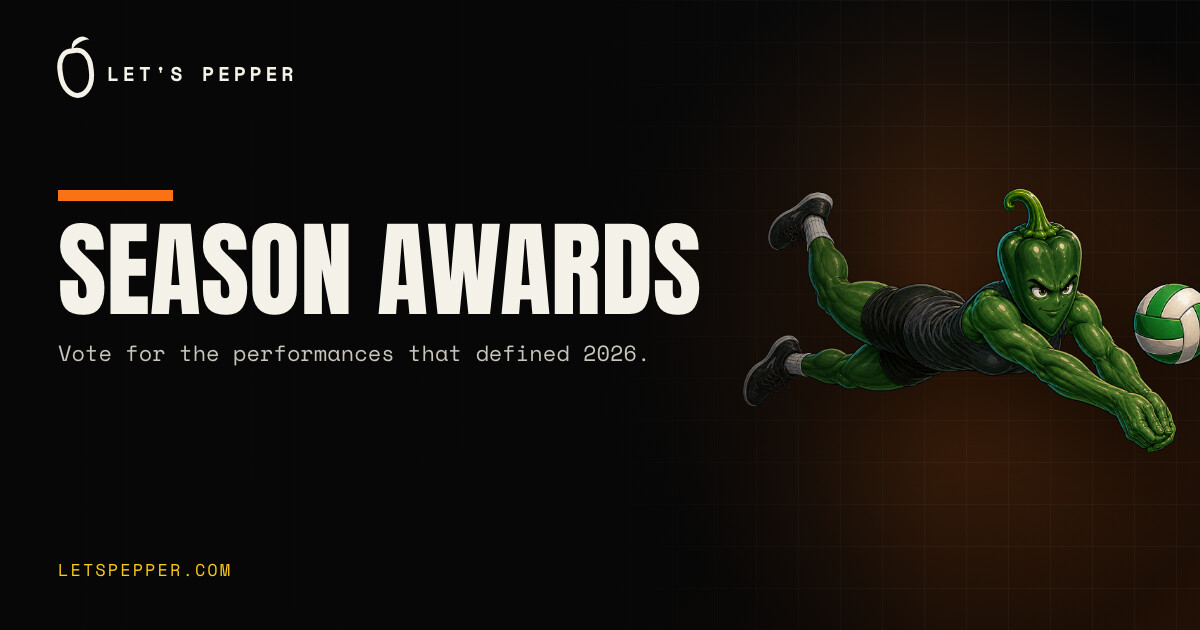
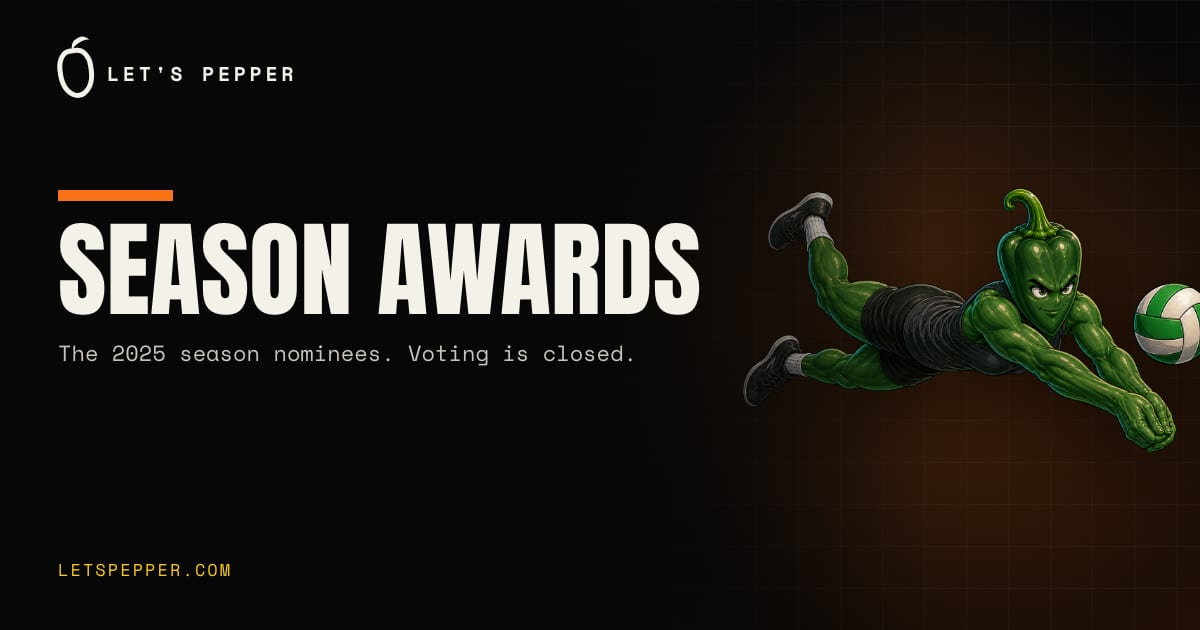
fix(awards): close the 2025 season fan vote
/awards still took ballots for the 2025 season a year after it ended, and
promised "Winners will be announced at the end of the season". Each
category holds one vote.

- AWARDS_VOTING_OPEN (src/lib/awards-data.ts) is false. The server refuses
  awards ballots in /api/votes (awards:* scopes) and award-vote points in
  /api/engagement with a 403, so a direct POST can't vote or earn points
  either. A forbidden() helper joins the API's response helpers.
- The page shows the 2025 nominees read-only, as a record rather than a
  ballot. It shows no submit button, no tallies (results stay hidden) and
  no announcement promise. It skips the live Rally HQ nominee list, which
  is recomputed from every event and would put 2026 names, such as Flores
  and Teresi from the Jalapeño Open, under the 2025 heading.
- The share description and the Open Graph card said "Vote for the
  performances that defined 2026." Both now read "The 2025 season nominees.
  Voting is closed." The card was re-rendered with
  scripts/media-kit/render-media-kit.mjs from creative/copy/approved-copy.json,
  and only the awards card was kept.

diff --git a/src/app/awards/page.tsx b/src/app/awards/page.tsx
@@ -5,7 +5,7 @@ import { motion, AnimatePresence } from 'framer-motion'
 import { MOTION } from '@/lib/motion'
 import { Header, Footer } from '@/components'
 import { cn } from '@/lib/utils'
-import { awardCategories, AWARDS_RESULTS_REVEALED } from '@/lib/awards-data'
+import { awardCategories, AWARDS_RESULTS_REVEALED, AWARDS_VOTING_OPEN } from '@/lib/awards-data'
 import { HEAT_CONFIG, type HeatLevel } from '@/lib/heat-config'
 import { heatText, type Heat } from '@/components/rhq/heat'
 import { HeatMeter } from '@/components/rhq/HeatMeter'
@@ -49,6 +49,10 @@ export default function AwardsPage() {
   const [categories, setCategories] = useState(awardCategories)
 
   useEffect(() => {
+    // A closed vote shows the nominees it ran with. The live Rally HQ list is
+    // recomputed from every event, including ones after the vote, so it would
+    // put later names under the 2025 heading.
+    if (!AWARDS_VOTING_OPEN) return
     const RHQ_BY_LP: Record<string, string> = {
       mvp: 'mvp',
       improved: 'most_improved',
@@ -89,7 +93,8 @@ export default function AwardsPage() {
 
   // Fetch live tallies when submitted or on mount if already submitted
   useEffect(() => {
-    if (!submitted) return
+    // Results stay hidden once voting closes (AWARDS_RESULTS_REVEALED).
+    if (!submitted || !AWARDS_VOTING_OPEN) return
     const scopes = categories.map((c) => `awards:${c.id}`).join(',')
     fetch(`/api/votes?scopes=${scopes}`)
       .then((r) => r.json())
@@ -100,7 +105,7 @@ export default function AwardsPage() {
   }, [submitted, categories])
 
   function handleVote(categoryId: string, nomineeId: string) {
-    if (submitted) return
+    if (submitted || !AWARDS_VOTING_OPEN) return
     setVotes(prev => {
       const next = { ...prev, [categoryId]: nomineeId }
       return next
@@ -175,7 +180,9 @@ export default function AwardsPage() {
                 Pepper <span style={{ color: 'var(--gold)' }}>Awards</span>
               </h1>
               <p className="text-xl text-zinc-400">
-                Vote for the best of the 2025 season. One vote per category. Choose wisely.
+                {AWARDS_VOTING_OPEN
+                  ? 'Vote for the best of the 2025 season. One vote per category. Choose wisely.'
+                  : 'Voting on the 2025 season awards is closed. These were the nominees.'}
               </p>
             </motion.div>
           </div>
@@ -225,21 +232,8 @@ export default function AwardsPage() {
                         const voteCount = scopeTallies[nominee.id] || 0
                         const pct = totalVotes > 0 ? Math.round((voteCount / totalVotes) * 100) : 0
 
-                        return (
-                          <motion.button
-                            key={nominee.id}
-                            type="button"
-                            onClick={() => handleVote(category.id, nominee.id)}
-                            disabled={submitted}
-                            className={cn(
-                              'text-left p-4 rounded-xl border transition-all',
-                              isSelected
-                                ? 'border-zinc-800 bg-zinc-900/60'
-                                : 'border-zinc-800/50 bg-zinc-900/30 hover:border-zinc-700',
-                              submitted && 'cursor-default'
-                            )}
-                            whileTap={!submitted ? { scale: 0.98 } : undefined}
-                          >
+                        const details = (
+                          <>
                             <p className={cn('font-display text-lg uppercase mb-1', isSelected ? 'text-white' : 'text-zinc-300')}>
                               {nominee.name}
                             </p>
@@ -263,6 +257,34 @@ export default function AwardsPage() {
                                 </div>
                               </div>
                             )}
+                          </>
+                        )
+
+                        if (!AWARDS_VOTING_OPEN) {
+                          // A closed vote is a record of the nominees, not a ballot.
+                          return (
+                            <div key={nominee.id} className="text-left p-4 rounded-xl border border-zinc-800/50 bg-zinc-900/30">
+                              {details}
+                            </div>
+                          )
+                        }
+
+                        return (
+                          <motion.button
+                            key={nominee.id}
+                            type="button"
+                            onClick={() => handleVote(category.id, nominee.id)}
+                            disabled={submitted}
+                            className={cn(
+                              'text-left p-4 rounded-xl border transition-all',
+                              isSelected
+                                ? 'border-zinc-800 bg-zinc-900/60'
+                                : 'border-zinc-800/50 bg-zinc-900/30 hover:border-zinc-700',
+                              submitted && 'cursor-default'
+                            )}
+                            whileTap={!submitted ? { scale: 0.98 } : undefined}
+                          >
+                            {details}
                           </motion.button>
                         )
                       })}
@@ -273,7 +295,7 @@ export default function AwardsPage() {
             </motion.div>
 
             {/* Submit */}
-            {!submitted && (
+            {AWARDS_VOTING_OPEN && !submitted && (
               <div className="mt-12 text-center">
                 <button
                   type="button"
@@ -294,7 +316,7 @@ export default function AwardsPage() {
 
             {/* Confirmation */}
             <AnimatePresence>
-              {submitted && !AWARDS_RESULTS_REVEALED && (
+              {AWARDS_VOTING_OPEN && submitted && !AWARDS_RESULTS_REVEALED && (
                 <motion.div
                   className="mt-12 bg-zinc-900/30 rounded-xl border p-8 text-center max-w-lg mx-auto"
                   style={{ borderColor: 'color-mix(in srgb, var(--gold) 30%, transparent)' }}

diff --git a/src/app/api/engagement/route.ts b/src/app/api/engagement/route.ts
@@ -1,6 +1,7 @@
 import { resolveFanToken } from '@/lib/fan-bridge'
 import { submitEngagementPoints } from '@/lib/rally-hq'
-import { isValidUUID, badRequest, serverError, ok } from '../_lib/validate'
+import { isValidUUID, badRequest, forbidden, serverError, ok } from '../_lib/validate'
+import { AWARDS_VOTING_OPEN } from '@/lib/awards-data'
 
 /**
  * Award engagement points (ADR-0007 stage 4) — bingo wins, award votes, etc.
@@ -25,6 +26,7 @@ export async function POST(request: Request) {
   const { device_id, source, ref, nickname } = body
   if (!isValidUUID(device_id)) return badRequest('Invalid device_id')
   if (typeof source !== 'string' || !(source in POINTS)) return badRequest('Unknown source')
+  if (source === 'award_vote' && !AWARDS_VOTING_OPEN) return forbidden('Awards voting is closed')
   if (typeof ref !== 'string' || !ref) return badRequest('ref is required')
 
   const nick = typeof nickname === 'string' && nickname.trim().length > 0

diff --git a/src/app/api/votes/route.ts b/src/app/api/votes/route.ts
@@ -1,6 +1,7 @@
 import { NextRequest } from 'next/server'
 import { supabase } from '@/lib/supabase'
-import { isValidUUID, badRequest, serverError, ok } from '../_lib/validate'
+import { isValidUUID, badRequest, forbidden, serverError, ok } from '../_lib/validate'
+import { AWARDS_VOTING_OPEN } from '@/lib/awards-data'
 
 /** POST — cast or update a vote (upsert by device_id + scope) */
 export async function POST(request: Request) {
@@ -11,6 +12,7 @@ export async function POST(request: Request) {
   if (!isValidUUID(device_id)) return badRequest('Invalid device_id')
   if (typeof scope !== 'string' || !scope) return badRequest('scope is required')
   if (typeof choice !== 'string' || !choice) return badRequest('choice is required')
+  if (scope.startsWith('awards:') && !AWARDS_VOTING_OPEN) return forbidden('Awards voting is closed')
 
   const { error } = await supabase
     .from('lp_votes')

diff --git a/src/app/awards/layout.tsx b/src/app/awards/layout.tsx
@@ -1,11 +1,13 @@
 import type { Metadata } from 'next'
 
+// Matches the share card (creative/copy/approved-copy.json, webCards.awards).
+// If the vote reopens (AWARDS_VOTING_OPEN), change both.
 export const metadata: Metadata = {
   title: "Season Awards | Let's Pepper",
-  description: 'Vote for the performances that defined 2026.',
+  description: 'The 2025 season nominees. Voting is closed.',
   openGraph: {
     title: 'Season Awards',
-    description: 'Vote for the performances that defined 2026.',
+    description: 'The 2025 season nominees. Voting is closed.',
     images: [{ url: '/images/og/creative/awards.jpg', width: 1200, height: 630, alt: "Let's Pepper season awards" }],
   },
   twitter: { card: 'summary_large_image', images: ['/images/og/creative/awards.jpg'] },

diff --git a/src/lib/awards-data.ts b/src/lib/awards-data.ts
@@ -87,3 +87,11 @@ export const awardCategories: AwardCategory[] = [
 
 /** Whether results are revealed (admin toggle) */
 export const AWARDS_RESULTS_REVEALED = false
+
+/**
+ * Whether the fan vote takes ballots. The 2025 season vote closed on 2026-10-09.
+ * While false, /awards shows the nominees read-only, and the server refuses
+ * awards ballots (/api/votes, awards:* scopes) and award-vote points
+ * (/api/engagement, award_vote), so a direct POST can't vote either.
+ */
+export const AWARDS_VOTING_OPEN = false

diff --git a/src/app/api/_lib/validate.ts b/src/app/api/_lib/validate.ts
@@ -10,6 +10,10 @@ export function badRequest(message: string) {
   return NextResponse.json({ error: message }, { status: 400 })
 }
 
+export function forbidden(message: string) {
+  return NextResponse.json({ error: message }, { status: 403 })
+}
+
 export function serverError(message = 'Internal server error') {
   return NextResponse.json({ error: message }, { status: 500 })
 }
